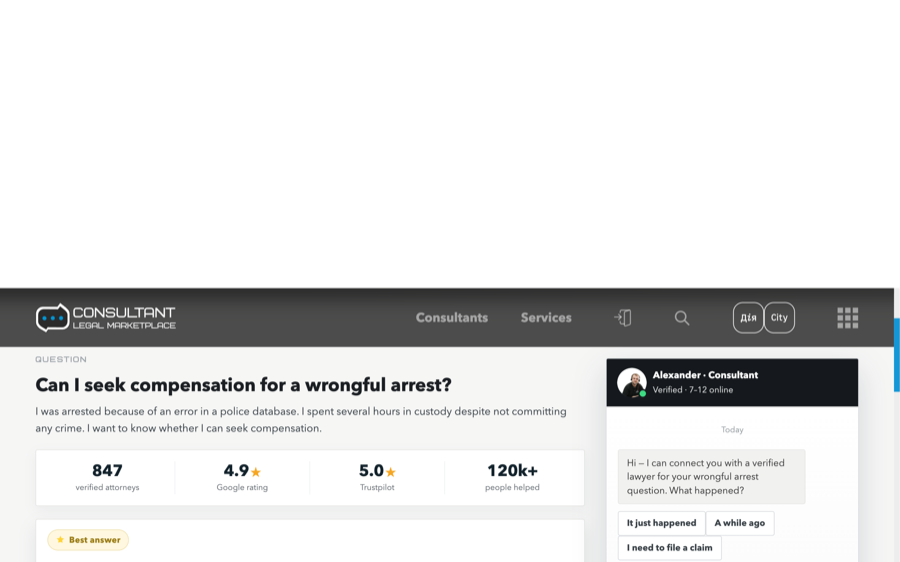
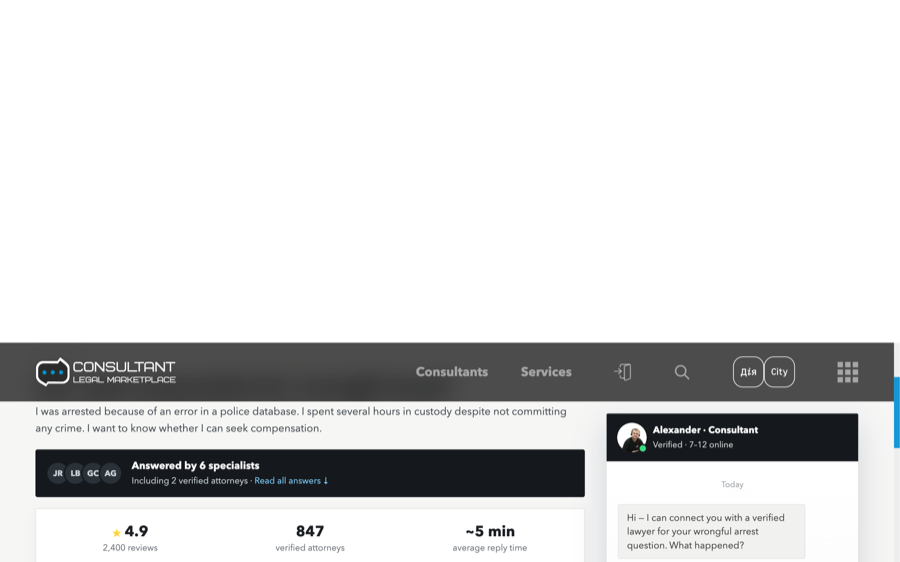
v8: add target-screenshot blocks (Answered-by specialists, redesigned trust strip 4.9/2400 reviews/~5min, Need-help dark bar, Think-you-have-a-claim CTA) wired to chat

diff --git a/v8/index.html b/v8/index.html
@@ -1069,6 +1069,31 @@ body.reminder-open .vip-hero{ padding-top:var(--header-height) !important; }
 .qn-legal{ max-width:1500px; margin:20px auto 36px; padding:14px clamp(12px,1.95vw,30px); font-family:"Avenir Next Cyr",sans-serif;
   font-size:12px; line-height:1.55; color:#9aa0a6; border-top:1px solid #ececea; }
 .qn-legal b{ color:#6b7177; }
+/* ===== blocks to match target screenshots 2-4 ===== */
+/* trust strip -> reviews / verified / reply time */
+.text-section .sx-trust .qn-tc{ text-align:center; padding:4px 8px; }
+.text-section .sx-trust .qn-tc b{ display:block; font-size:21px; color:#1b1f23; font-weight:800; line-height:1.1; }
+.text-section .sx-trust .qn-tc .qn-star{ color:#FFD337; }
+.text-section .sx-trust .qn-tc span{ font-size:12.5px; color:#6b7177; }
+/* "Answered by N specialists" dark block */
+.qn-answeredby{ display:flex; align-items:center; gap:13px; margin:14px 0 16px; padding:12px 15px; background:#15191d; border-radius:3px; color:#fff; font-family:"Avenir Next Cyr",sans-serif; }
+.qn-answeredby .qn-ava{ display:flex; flex:0 0 auto; }
+.qn-answeredby .qn-ava span{ width:34px; height:34px; border-radius:50%; margin-left:-9px; background:#2b3138; border:2px solid #15191d; display:grid; place-items:center; font-size:11.5px; font-weight:700; color:#cfd6db; }
+.qn-answeredby .qn-ava span:first-child{ margin-left:0; }
+.qn-answeredby b{ font-size:14.5px; } .qn-answeredby small{ display:block; font-size:12.5px; color:#c4ccd2; margin-top:1px; }
+.qn-answeredby a{ color:#7ed0ff; text-decoration:none; } .qn-answeredby a:hover{ text-decoration:underline; }
+/* "Need help with a similar situation?" dark bar */
+.qn-needhelp{ display:flex; align-items:center; gap:18px; flex-wrap:wrap; margin:18px clamp(0px,1.95vw,30px); padding:18px 22px; background:#15191d; border-radius:3px; color:#fff; font-family:"Avenir Next Cyr",sans-serif; }
+.qn-needhelp b{ font-size:17px; display:block; } .qn-needhelp small{ font-size:13px; color:#c4ccd2; }
+.qn-needhelp button{ margin-left:auto; background:#1397d6; color:#fff; border:0; border-radius:3px; padding:13px 24px; font:inherit; font-weight:700; font-size:14.5px; cursor:pointer; white-space:nowrap; }
+.qn-needhelp button:hover{ background:#0f7cb3; }
+@media(max-width:560px){ .qn-needhelp button{ margin-left:0; width:100%; } }
+/* "THINK YOU HAVE A CLAIM" blue CTA */
+.qn-claim{ max-width:1500px; margin:20px auto; padding:26px clamp(16px,2vw,30px); background:linear-gradient(180deg,#1f9ad8,#0f6fa3); border-radius:3px; color:#fff; font-family:"Avenir Next Cyr",sans-serif; }
+.qn-claim h3{ font-family:"Bicubik",sans-serif; font-weight:400; font-size:clamp(20px,2.6vw,30px); letter-spacing:.03em; text-transform:uppercase; margin:0 0 8px; }
+.qn-claim p{ margin:0 0 16px; font-size:15px; } .qn-claim .qn-star{ color:#FFD337; }
+.qn-claim button{ background:#fff; color:#0f7cb3; border:0; border-radius:3px; padding:13px 26px; font:inherit; font-weight:700; font-size:15px; cursor:pointer; }
+.qn-claim button:hover{ background:#eef7fc; }
 </style>
 
 </head>
@@ -3414,6 +3439,47 @@ html.fc-lock,html.fc-lock body{overflow:hidden!important;height:100%!important;o
         rel.innerHTML='<h2>Related questions</h2><ul>'+RELATED.map(function(q){return '<li><a href="#">'+esc(q)+ARROW+'</a></li>';}).join('')+'</ul>';
         anchor.parentNode.insertBefore(rel, anchor);
       }
+    }
+    /* ===== match target screenshots 2-4 ===== */
+    function openChat(){ if(window.openChat) window.openChat(); }
+    /* trust strip -> reviews / verified / reply time */
+    var trust=document.querySelector('.sx-trust');
+    if(trust && !trust.getAttribute('data-qn')){ trust.setAttribute('data-qn','1');
+      trust.style.gridTemplateColumns='repeat(3,1fr)';
+      trust.innerHTML='<div class="qn-tc"><b><span class="qn-star">\u2605</span> 4.9</b><span>2,400 reviews</span></div>'
+        +'<div class="qn-tc"><b>847</b><span>verified attorneys</span></div>'
+        +'<div class="qn-tc"><b>~5 min</b><span>average reply time</span></div>';
+    }
+    /* "Answered by N specialists" block (under the question) */
+    var qb=document.querySelector('.sx-qblock');
+    if(qb && !document.querySelector('.qn-answeredby')){
+      var nms=[].slice.call(document.querySelectorAll('.text-section .text-card .balance-card__name')).map(function(n){return n.textContent.trim();});
+      var n=nms.length||4; var avs=nms.slice(0,4).map(function(nm){ var ini=(nm.match(/\b\w/g)||['?']).slice(0,2).join('').toUpperCase(); return '<span>'+ini+'</span>'; }).join('');
+      var ab=document.createElement('div'); ab.className='qn-answeredby';
+      ab.innerHTML='<span class="qn-ava">'+avs+'</span><span><b>Answered by '+n+' specialists</b>'
+        +'<small>Including 2 verified attorneys \u00b7 <a href="#answers">Read all answers \u2193</a></small></span>';
+      qb.insertAdjacentElement('afterend', ab);
+      var ra=ab.querySelector('a'); if(ra) ra.addEventListener('click',function(e){ e.preventDefault(); var f=document.querySelector('.text-section .text-card'); if(f) f.scrollIntoView({behavior:'smooth',block:'start'}); });
+    }
+    /* "Need help with a similar situation?" dark bar (between answers) */
+    var ac=document.querySelectorAll('.text-section .text-card');
+    if(ac.length && !document.querySelector('.qn-needhelp')){
+      var mid=ac[Math.min(1, ac.length-1)];
+      var nh=document.createElement('div'); nh.className='qn-needhelp';
+      nh.innerHTML='<span><b>Need help with a similar situation?</b><small>Free consultation \u00b7 847 verified attorneys online now.</small></span>'
+        +'<button type="button">Find a wrongful arrest lawyer \u2192</button>';
+      mid.insertAdjacentElement('afterend', nh);
+      nh.querySelector('button').addEventListener('click',openChat);
+    }
+    /* "THINK YOU HAVE A CLAIM" blue CTA (before Related/FAQ) */
+    var anchor2=document.querySelector('.qn-related')||document.querySelector('.sx-faq')||document.querySelector('.sx-paa');
+    if(anchor2 && !document.querySelector('.qn-claim')){
+      var cl=document.createElement('section'); cl.className='qn-claim';
+      cl.innerHTML='<h3>Think you have a wrongful arrest claim?</h3>'
+        +'<p>Get a free case review from a verified attorney. <b><span class="qn-star">\u2605</span> 4.9</b> from 2,400 reviews.</p>'
+        +'<button type="button">Get a free consultation \u2192</button>';
+      anchor2.parentNode.insertBefore(cl, anchor2);
+      cl.querySelector('button').addEventListener('click',openChat);
     }
     /* 4) general legal disclaimer at the very bottom */
     if(!document.querySelector('.qn-legal')){